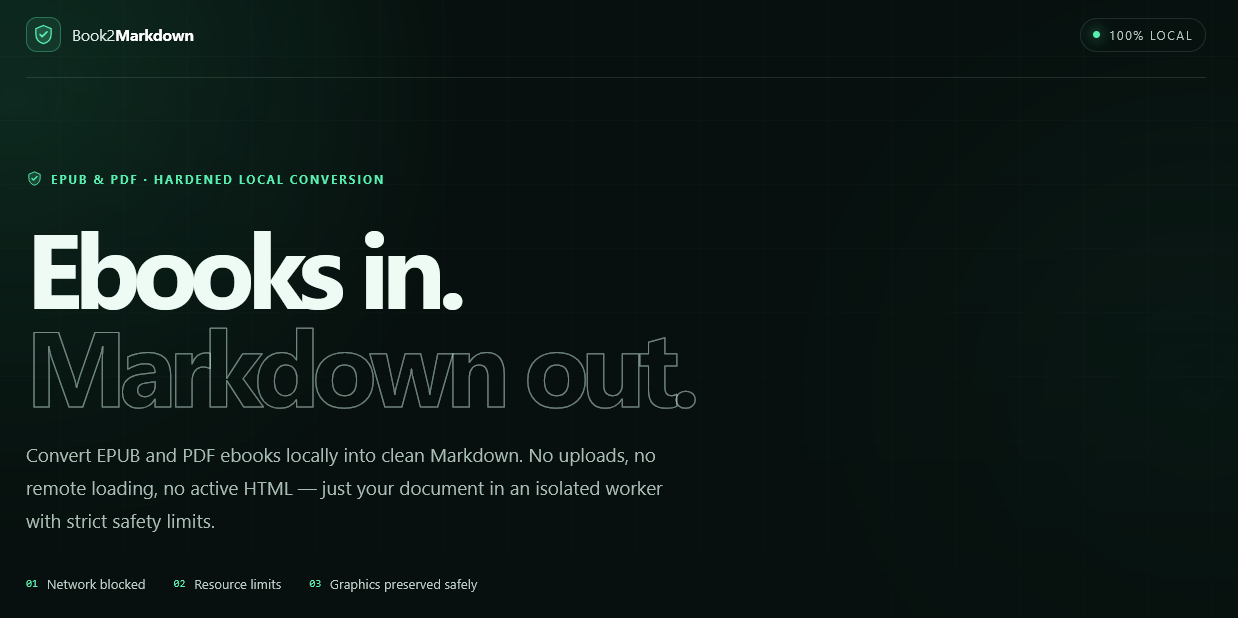
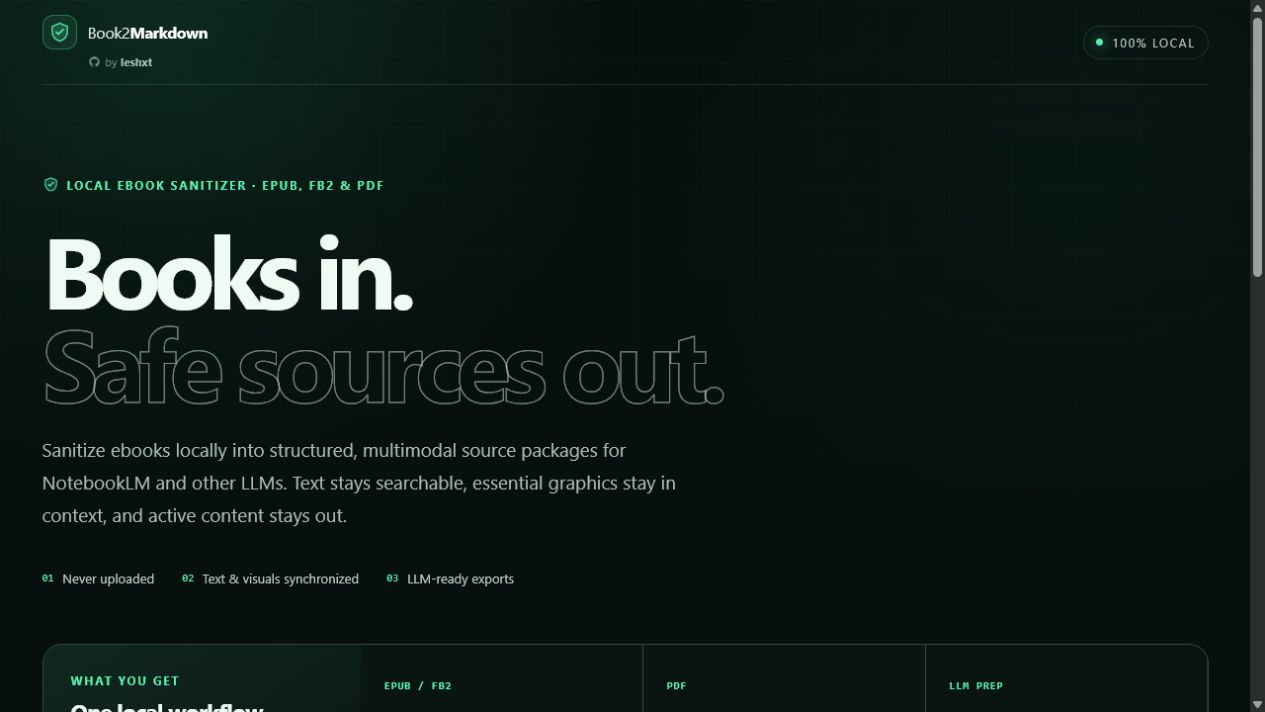
Reframe app as safe LLM preparation

diff --git a/src/App.tsx b/src/App.tsx
@@ -74,6 +74,14 @@ function DownloadIcon(props: SVGProps<SVGSVGElement>) {
   )
 }
 
+function GitHubIcon(props: SVGProps<SVGSVGElement>) {
+  return (
+    <svg viewBox="0 0 24 24" aria-hidden="true" {...props}>
+      <path fill="currentColor" d="M12 2.25a9.75 9.75 0 0 0-3.08 19c.49.09.67-.21.67-.47v-1.9c-2.73.59-3.31-1.16-3.31-1.16-.45-1.13-1.09-1.43-1.09-1.43-.89-.61.07-.6.07-.6.98.07 1.5 1.01 1.5 1.01.87 1.5 2.29 1.06 2.85.81.09-.63.34-1.06.62-1.3-2.18-.25-4.47-1.09-4.47-4.82 0-1.06.38-1.93 1.01-2.61-.1-.25-.44-1.24.1-2.58 0 0 .82-.26 2.68 1a9.29 9.29 0 0 1 4.88 0c1.86-1.26 2.68-1 2.68-1 .54 1.34.2 2.33.1 2.58.63.68 1.01 1.55 1.01 2.61 0 3.74-2.3 4.57-4.48 4.81.35.31.66.91.66 1.84v2.7c0 .26.18.57.67.47A9.75 9.75 0 0 0 12 2.25Z" />
+    </svg>
+  )
+}
+
 function selectError(file: File): { readonly code: SecurityErrorCode; readonly message: string } | null {
   if (file.size === 0) return { code: 'INVALID_DOCUMENT', message: 'The selected file is empty.' }
   if (file.size > SECURITY_POLICY.maxInputBytes) {
@@ -152,38 +160,83 @@ export function App() {
   }
 
   const currentFile = state.kind === 'idle' ? null : state.file
+  const resultMetrics = state.kind === 'success'
+    ? [
+        { label: state.result.summary.unitLabel, value: state.result.summary.units.toLocaleString('en-US') },
+        state.result.summary.format === 'pdf'
+          ? { label: 'searchable text', value: formatBytes(state.result.summary.processedBytes) }
+          : { label: 'graphics', value: state.result.summary.assets.toLocaleString('en-US') },
+        { label: 'export', value: formatBytes(state.result.summary.outputBytes) },
+      ]
+    : []
 
   return (
     <div className="app-shell">
+      <a className="skip-link" href="#main">Skip to Main Content</a>
       <header className="topbar">
-        <a className="brand" href="#main" aria-label="Book2Markdown — skip to main content">
-          <span className="brand-mark"><ShieldIcon /></span>
-          <span>Book2<strong>Markdown</strong></span>
-        </a>
-        <div className="local-badge"><span />100% local</div>
+        <div className="brand-lockup">
+          <a className="brand" href="#main" aria-label="Book2Markdown — go to the converter">
+            <span className="brand-mark"><ShieldIcon /></span>
+            <span className="brand-name" translate="no">Book2<strong>Markdown</strong></span>
+          </a>
+          <a
+            className="creator-link"
+            href="https://github.com/leshxt"
+            target="_blank"
+            rel="noopener noreferrer"
+            aria-label="Visit leshxt on GitHub"
+          >
+            <GitHubIcon /><span>by <strong translate="no">leshxt</strong></span>
+          </a>
+        </div>
+        <div className="local-badge"><span aria-hidden="true" />100% local</div>
       </header>
 
       <main id="main">
         <section className="hero" aria-labelledby="hero-title">
-          <div className="eyebrow"><ShieldIcon /> EPUB, FB2 &amp; PDF · hardened local conversion</div>
-          <h1 id="hero-title">Ebooks in.<br /><span>Markdown out.</span></h1>
+          <div className="eyebrow"><ShieldIcon /> Local ebook sanitizer · EPUB, FB2 &amp; PDF</div>
+          <h1 id="hero-title">Books in.<br /><span>Safe sources out.</span></h1>
           <p className="hero-copy">
-            Convert EPUB, FB2 and PDF ebooks locally into clean Markdown. No uploads, no remote loading,
-            no active HTML — just your document in an isolated worker with strict safety limits.
+            Sanitize ebooks locally into structured, multimodal source packages for NotebookLM and other
+            LLMs. Text stays searchable, essential graphics stay in context, and active content stays out.
           </p>
 
-          <div className="trust-row" aria-label="Security features">
-            <span><i>01</i> Network blocked</span>
-            <span><i>02</i> Resource limits</span>
-            <span><i>03</i> Graphics preserved safely</span>
+          <div className="trust-row" aria-label="Product guarantees">
+            <span><i>01</i> Never uploaded</span>
+            <span><i>02</i> Text &amp; visuals synchronized</span>
+            <span><i>03</i> LLM-ready exports</span>
           </div>
         </section>
 
-        <section className="studio-card" aria-label="Ebook conversion">
+        <section className="outcomes" aria-labelledby="outcomes-title">
+          <div className="outcomes-heading">
+            <p className="section-label">What You Get</p>
+            <h2 id="outcomes-title">One local workflow.<br />Three useful outputs.</h2>
+          </div>
+          <div className="outcome-grid">
+            <article>
+              <span>EPUB / FB2</span>
+              <h3>Sanitized Visual Ebook</h3>
+              <p>Rebuilt reading order with verified raster graphics, cleaned SVG, and stable figure positions.</p>
+            </article>
+            <article>
+              <span>PDF</span>
+              <h3>Searchable Sanitized PDF</h3>
+              <p>Page-faithful visuals plus rebuilt Unicode text, without source scripts, forms, or attachments.</p>
+            </article>
+            <article>
+              <span>LLM Prep</span>
+              <h3>Structured Context</h3>
+              <p>NotebookLM guidance, optional Markdown, stable FIG/PAGE references, and a security report.</p>
+            </article>
+          </div>
+        </section>
+
+        <section className="studio-card" aria-label="Ebook preparation">
           <div className="studio-heading">
             <div>
-              <p className="section-label">Local studio</p>
-              <h2>Choose an ebook</h2>
+              <p className="section-label">Private Workspace</p>
+              <h2>Prepare an Ebook</h2>
             </div>
             <span className="limit-label">max. 80 MB</span>
           </div>
@@ -201,6 +254,8 @@ export function App() {
           >
             <input
               type="file"
+              name="ebook"
+              aria-label="Choose an EPUB, FB2, compressed FB2, or PDF ebook"
               accept=".epub,.fb2,.fb2.zip,.pdf,application/epub+zip,application/x-fictionbook+xml,application/pdf"
               disabled={state.kind === 'running'}
               onChange={(event) => {
@@ -210,7 +265,7 @@ export function App() {
             />
             <span className="upload-orbit"><UploadIcon /></span>
             <strong>{state.dragging ? 'Drop it here' : 'Drop an EPUB, FB2 or PDF here'}</strong>
-            <span>or click to choose an ebook</span>
+            <span>or choose a local file</span>
           </label>
 
           {currentFile && (
@@ -229,7 +284,7 @@ export function App() {
           <div className="status-region" aria-live="polite">
             {state.kind === 'ready' && (
               <button className="primary-button" type="button" onClick={() => void startConversion()}>
-                <ShieldIcon /> Convert safely
+                <ShieldIcon /> Prepare Safe Sources
               </button>
             )}
 
@@ -258,12 +313,12 @@ export function App() {
               <div className="result-panel">
                 <div className="result-title">
                   <span className="success-mark"><ShieldIcon /></span>
-                  <div><p className="section-label">Safely exported</p><h3>{state.result.summary.title}</h3></div>
+                  <div><p className="section-label">Safely Prepared</p><h3>{state.result.summary.title}</h3></div>
                 </div>
                 <div className="metrics">
-                  <div><strong>{state.result.summary.units}</strong><span>{state.result.summary.unitLabel}</span></div>
-                  <div><strong>{state.result.summary.assets}</strong><span>images</span></div>
-                  <div><strong>{formatBytes(state.result.summary.outputBytes)}</strong><span>export</span></div>
+                  {resultMetrics.map((metric) => (
+                    <div key={metric.label}><strong>{metric.value}</strong><span>{metric.label}</span></div>
+                  ))}
                 </div>
                 {state.result.summary.warnings.length > 0 && (
                   <details className="warnings">
@@ -284,7 +339,7 @@ export function App() {
                   </div>
                 )}
                 <button className="primary-button" type="button" onClick={downloadResult}>
-                  <DownloadIcon /> Download conversion bundle
+                  <DownloadIcon /> Download Prepared Bundle
                 </button>
                 <details className="preview">
                   <summary>Show text preview</summary>
@@ -308,7 +363,7 @@ export function App() {
       </main>
 
       <footer>
-        <span>Book2Markdown · Open Source · MIT</span>
+        <span><span translate="no">Book2Markdown</span> · <a href="https://github.com/leshxt/Book2Markdown" target="_blank" rel="noopener noreferrer">Open Source</a> · MIT</span>
         <span>Processing happens entirely in your browser</span>
       </footer>
     </div>

diff --git a/src/styles.css b/src/styles.css
@@ -1,4 +1,5 @@
 :root {
+  color-scheme: dark;
   font-family: Inter, ui-sans-serif, -apple-system, BlinkMacSystemFont, "Segoe UI", sans-serif;
   color: #eefbf5;
   background: #07100e;
@@ -15,9 +16,13 @@
 
 * { box-sizing: border-box; }
 html { scroll-behavior: smooth; }
-body { margin: 0; min-width: 320px; min-height: 100vh; background: #07100e; }
+body { margin: 0; min-width: 320px; min-height: 100vh; overflow-x: hidden; background: #07100e; }
 button, input { font: inherit; }
 button { color: inherit; }
+button, a, label { touch-action: manipulation; -webkit-tap-highlight-color: rgba(88,240,177,.16); }
+h1, h2, h3 { text-wrap: balance; }
+p { text-wrap: pretty; }
+[id] { scroll-margin-top: 20px; }
 
 body::before {
   content: "";
@@ -34,11 +39,19 @@ body::before {
 }
 
 .app-shell { position: relative; width: min(1180px, calc(100% - 40px)); margin: 0 auto; }
+.skip-link { position: fixed; z-index: 20; top: 10px; left: 10px; padding: 10px 14px; border-radius: 9px; background: var(--mint); color: var(--ink); font-size: .82rem; font-weight: 750; text-decoration: none; transform: translateY(-150%); transition: transform .15s; }
+.skip-link:focus-visible { outline: 2px solid white; outline-offset: 3px; transform: translateY(0); }
 .topbar { height: 86px; display: flex; align-items: center; justify-content: space-between; border-bottom: 1px solid var(--line); }
+.brand-lockup { display: grid; gap: 5px; }
 .brand { display: flex; gap: 11px; align-items: center; color: #dceae4; text-decoration: none; letter-spacing: -.02em; }
 .brand strong { color: white; }
 .brand-mark { width: 35px; height: 35px; display: grid; place-items: center; border: 1px solid rgba(88,240,177,.32); border-radius: 11px; color: var(--mint); background: rgba(88,240,177,.08); }
 .brand-mark svg { width: 23px; }
+.creator-link { width: fit-content; display: inline-flex; align-items: center; gap: 5px; margin-left: 46px; color: #789087; font-size: .67rem; letter-spacing: .035em; text-decoration: none; transition: color .16s; }
+.creator-link svg { width: 13px; height: 13px; }
+.creator-link strong { color: #a9beb5; font-weight: 650; }
+.creator-link:hover, .creator-link:hover strong { color: var(--mint); }
+.creator-link:focus-visible, footer a:focus-visible, .brand:focus-visible { outline: 2px solid white; outline-offset: 4px; border-radius: 4px; }
 .local-badge { display: flex; align-items: center; gap: 9px; padding: 8px 12px; border: 1px solid var(--line); border-radius: 999px; color: #b7cac1; font-size: .78rem; text-transform: uppercase; letter-spacing: .11em; }
 .local-badge span { width: 7px; height: 7px; border-radius: 50%; background: var(--mint); box-shadow: 0 0 14px var(--mint); }
 
@@ -53,6 +66,15 @@ main { padding-bottom: 90px; }
 .trust-row { display: flex; flex-wrap: wrap; gap: 14px 28px; margin-top: 38px; color: #bdcec6; font-size: .82rem; }
 .trust-row span { display: flex; align-items: center; gap: 9px; }
 .trust-row i { color: var(--mint); font-style: normal; font-family: ui-monospace, monospace; font-size: .67rem; }
+
+.outcomes { display: grid; grid-template-columns: minmax(230px, .9fr) minmax(0, 2.4fr); margin-bottom: 24px; overflow: hidden; border: 1px solid var(--line); border-radius: 20px; background: var(--line); }
+.outcomes-heading { padding: 28px; background: linear-gradient(145deg, #10271f, #0a1512); }
+.outcomes-heading h2 { margin: 11px 0 0; font-size: 1.45rem; line-height: 1.08; letter-spacing: -.04em; }
+.outcome-grid { min-width: 0; display: grid; grid-template-columns: repeat(3, minmax(0, 1fr)); gap: 1px; background: var(--line); }
+.outcome-grid article { min-width: 0; padding: 28px 24px; background: #0a1512; }
+.outcome-grid article > span { color: var(--mint); font: 700 .66rem ui-monospace, monospace; letter-spacing: .1em; text-transform: uppercase; }
+.outcome-grid h3 { margin: 38px 0 10px; font-size: 1rem; }
+.outcome-grid p { margin: 0; color: var(--muted); font-size: .8rem; line-height: 1.62; overflow-wrap: anywhere; }
 
 .studio-card { position: relative; padding: clamp(25px, 5vw, 52px); overflow: hidden; border: 1px solid rgba(119, 190, 159, .2); border-radius: 28px; background: linear-gradient(135deg, rgba(17, 36, 30, .94), rgba(10, 22, 19, .93)); box-shadow: 0 40px 100px rgba(0,0,0,.35); }
 .studio-card::after { content: ""; position: absolute; width: 280px; height: 280px; right: -150px; top: -150px; border-radius: 50%; background: rgba(88,240,177,.11); filter: blur(12px); pointer-events: none; }
@@ -82,7 +104,7 @@ main { padding-bottom: 90px; }
 .primary-button:focus-visible, button:focus-visible, summary:focus-visible { outline: 2px solid white; outline-offset: 3px; }
 .primary-button svg { width: 22px; }
 .progress-panel, .result-panel { padding: 20px; border: 1px solid var(--line); border-radius: 16px; background: rgba(5,15,12,.45); }
-.progress-copy { display: flex; align-items: center; justify-content: space-between; color: var(--mint); font-size: .84rem; }
+.progress-copy { display: flex; align-items: center; justify-content: space-between; color: var(--mint); font-size: .84rem; font-variant-numeric: tabular-nums; }
 .progress-copy > div { display: flex; align-items: center; gap: 10px; color: #eaf7f1; }
 .spinner { width: 16px; height: 16px; border: 2px solid rgba(88,240,177,.2); border-top-color: var(--mint); border-radius: 50%; animation: spin .8s linear infinite; }
 .progress-track { width: 100%; height: 7px; margin: 15px 0 12px; overflow: hidden; border: 0; border-radius: 99px; appearance: none; background: rgba(255,255,255,.07); }
@@ -102,10 +124,11 @@ main { padding-bottom: 90px; }
 .success-mark svg { width: 30px; }
 .metrics { display: grid; grid-template-columns: repeat(3, 1fr); gap: 10px; margin: 22px 0; }
 .metrics div { display: grid; gap: 5px; padding: 14px; border: 1px solid var(--line); border-radius: 11px; }
-.metrics strong { font-size: 1.2rem; }
+.metrics strong { font-size: 1.2rem; font-variant-numeric: tabular-nums; }
 .metrics span { color: var(--muted); font-size: .7rem; text-transform: uppercase; letter-spacing: .08em; }
 .warnings, .preview { margin: 16px 0; color: #b8c9c1; font-size: .82rem; }
 .warnings summary, .preview summary { cursor: pointer; }
+.warnings summary:hover, .preview summary:hover { color: white; }
 .warnings li { margin-block: 7px; }
 .llm-ready-note { display: grid; gap: 6px; margin: 16px 0; padding: 14px 16px; border: 1px solid rgba(44,220,146,.28); border-radius: 11px; background: rgba(44,220,146,.07); }
 .llm-ready-note strong { color: #d6f8e8; font-size: .88rem; }
@@ -124,21 +147,27 @@ main { padding-bottom: 90px; }
 .security-grid article p { margin: 0; }
 
 footer { min-height: 85px; display: flex; justify-content: space-between; align-items: center; border-top: 1px solid var(--line); color: #6f877c; font-size: .72rem; letter-spacing: .04em; }
+footer a { color: #91a89e; text-underline-offset: 3px; transition: color .16s; }
+footer a:hover { color: var(--mint); }
 
 @keyframes spin { to { transform: rotate(360deg); } }
 
 @media (max-width: 950px) {
+  .outcomes { grid-template-columns: 1fr; }
   .security-grid { grid-template-columns: 1fr 1fr; }
   .security-grid > * { min-height: 230px; }
 }
 
 @media (max-width: 640px) {
   .app-shell { width: min(100% - 24px, 1180px); }
-  .topbar { height: 72px; }
+  .topbar { height: 78px; }
   .local-badge { font-size: .65rem; }
   .hero { padding: 64px 0 42px; }
   .hero h1 { font-size: clamp(3.05rem, 16vw, 4.5rem); }
   .trust-row { display: grid; gap: 11px; }
+  .outcome-grid { grid-template-columns: 1fr; }
+  .outcome-grid article { padding: 24px; }
+  .outcome-grid h3 { margin-top: 22px; }
   .studio-card { border-radius: 20px; }
   .dropzone { min-height: 205px; padding: 22px; text-align: center; }
   .file-row { align-items: flex-start; }

diff --git a/index.html b/index.html
@@ -6,8 +6,8 @@
     <meta name="color-scheme" content="dark" />
     <meta name="theme-color" content="#08110f" />
     <meta name="referrer" content="no-referrer" />
-    <meta name="description" content="Convert EPUB, FB2 and PDF ebooks to clean Markdown locally in your browser." />
-    <title>Book2Markdown — EPUB &amp; PDF to Markdown</title>
+    <meta name="description" content="Sanitize EPUB, FB2 and PDF ebooks locally into searchable, multimodal source packages for NotebookLM and other LLMs." />
+    <title>Book2Markdown — Safe Ebook Preparation for LLMs</title>
   </head>
   <body>
     <div id="root"></div>

diff --git a/README.md b/README.md
@@ -1,10 +1,12 @@
 # Book2Markdown
 
-**Convert EPUB, FB2 and PDF ebooks to clean Markdown — locally, with untrusted input in mind.**
+**Safe ebook preparation for NotebookLM and other LLMs — local, multimodal, and built for untrusted input.**
 
-Book2Markdown is a browser-based converter with no backend and no upload. The document
-stays on the device, parsing runs in a disposable worker, and the production build cannot
-make network connections.
+Book2Markdown is a browser-based EPUB, FB2 and PDF sanitizer by
+[`leshxt`](https://github.com/leshxt). It rebuilds ebooks as structured source packages with
+searchable text, preserved graphics, stable reading-position references and optional Markdown.
+There is no backend or upload: the document stays on the device, parsing runs in a disposable
+worker, and the production build cannot make network connections.
 
 ![Book2Markdown local conversion interface](docs/assets/book2markdown-ui.png)
 
@@ -15,6 +17,9 @@ make network connections.
 | EPUB 2/3 | General Markdown bundle plus synchronized LLM package | Preserves signature-checked raster images and allowlist-sanitized SVG at their reading positions |
 | FictionBook 2 (`.fb2`, `.fb2.zip`) | Same synchronized book package as EPUB | Preserves sections, notes, cover art and embedded signature-checked or sanitized images at their reading positions |
 | PDF | Searchable sanitized PDF and page-separated Markdown | Re-renders whole pages for visual fidelity, then adds locally extracted Unicode text as a passive searchable layer |
+
+Every format also receives import guidance for NotebookLM and similar multimodal LLMs, plus a
+security report describing enforced limits, removed active content and conversion warnings.
 
 Scanned PDF pages remain visible in the sanitized companion, but they need OCR before they can
 produce Markdown text. PDF is a layout format, so complex columns, tables and reading order may

diff --git a/CHANGELOG.md b/CHANGELOG.md
@@ -2,6 +2,8 @@
 
 ## Unreleased
 
+- Repositioned the interface around local ebook sanitization and LLM preparation, added format-specific
+  output guidance, a graphical `by leshxt` GitHub credit, and clearer success metrics.
 - Added complete FictionBook 2 support for `.fb2` and single-document `.fb2.zip`, including sections,
   note bodies, cover art, embedded raster/SVG graphics, stable figure positions and the synchronized LLM package.
 - Added bounded whole-page PDF rendering and a rebuilt searchable `document.sanitized.pdf`: passive

diff --git a/docs/ROADMAP.md b/docs/ROADMAP.md
@@ -1,7 +1,8 @@
 # Roadmap
 
-Book2Markdown aims to become a focused, local ebook-to-Markdown converter without weakening
-its privacy and hostile-input boundaries.
+Book2Markdown aims to become a focused, local ebook-sanitization and LLM-preparation studio
+without weakening its privacy and hostile-input boundaries. Markdown remains an important
+portable output, but not the product's only destination.
 
 ## Current: unreleased
 
